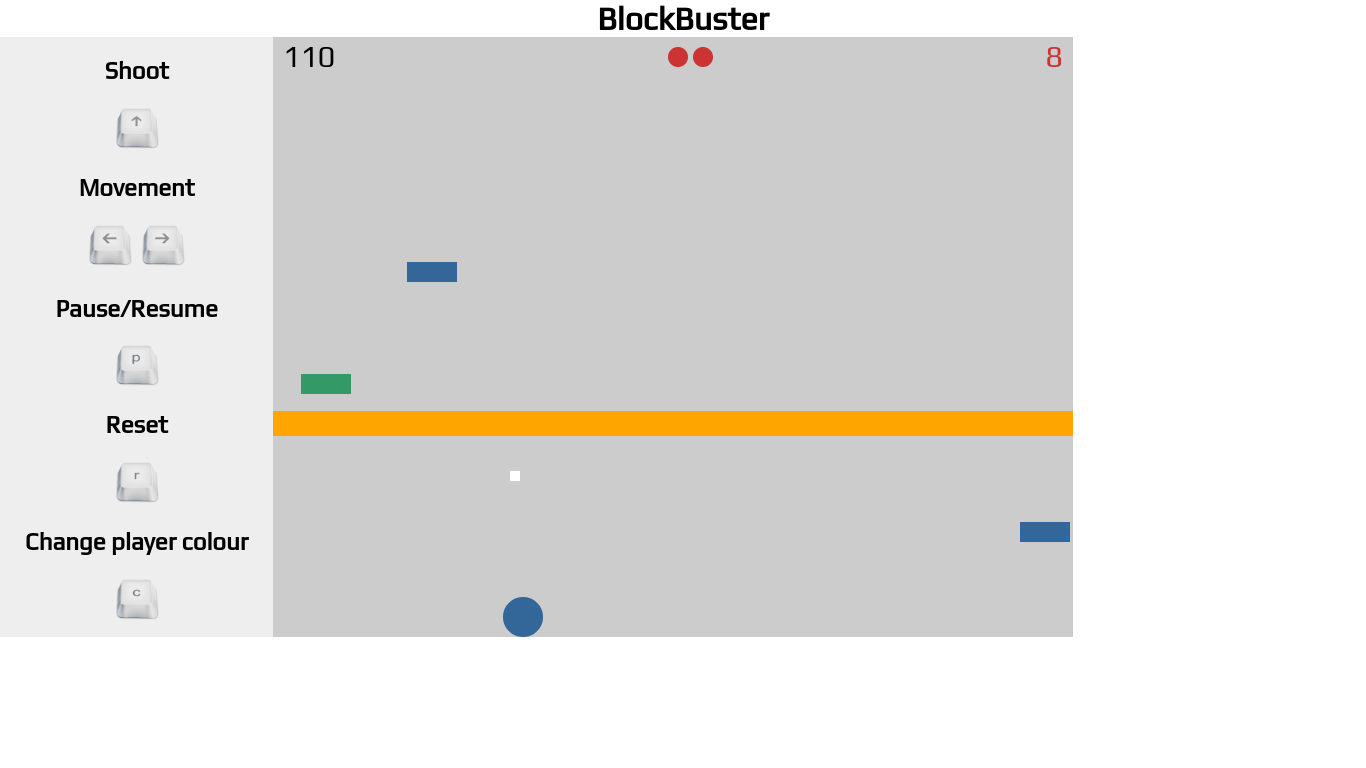
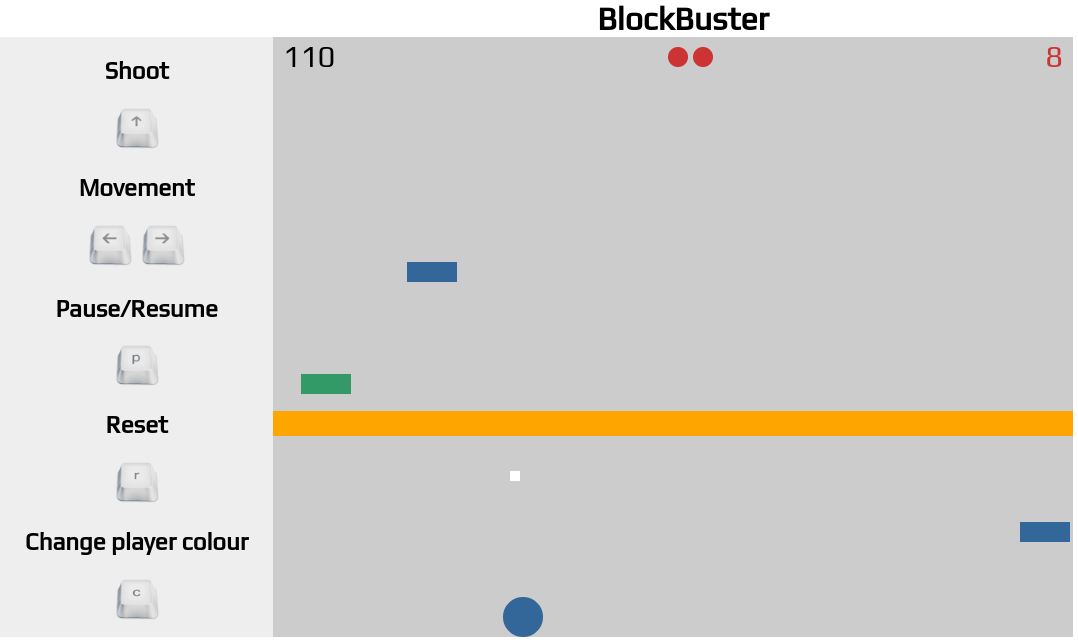
updated readme and screenshots

diff --git a/README.md b/README.md
@@ -14,3 +14,5 @@ The objective of the game is to control a ball (your player) and shoot falling b
 
 3) Run index.html in a web browser, either using a web server or by simply opening the file.
 
+![Screenshot of Instructions](images/screenshots/instructions.png)
+![Screenshot of Gameplay](images/screenshots/gameplay.png)
